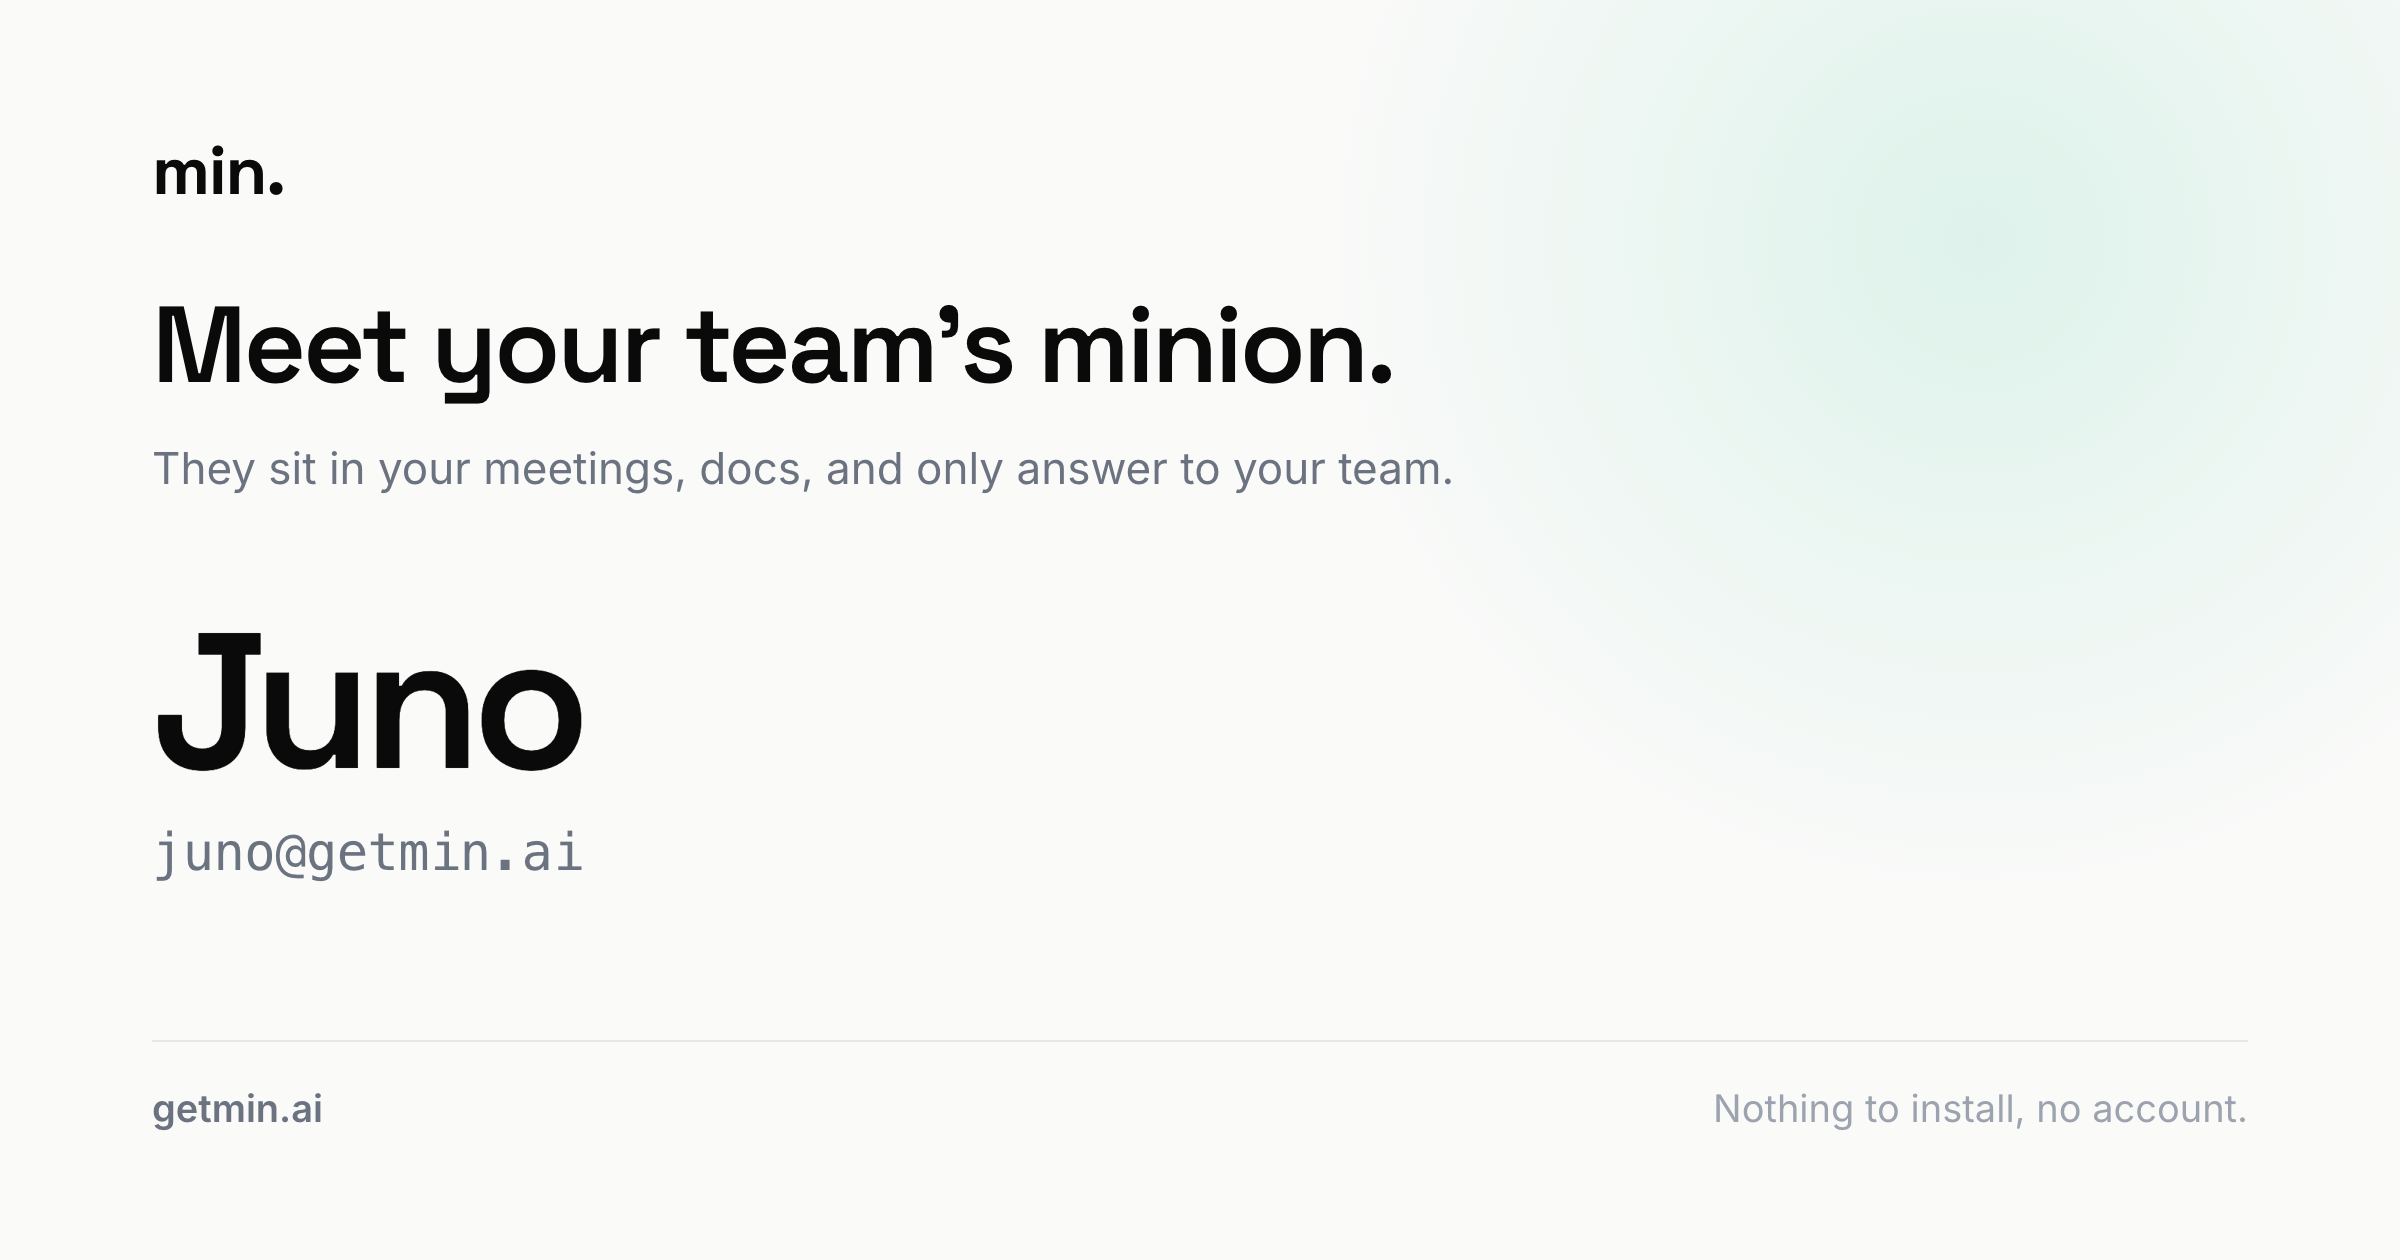
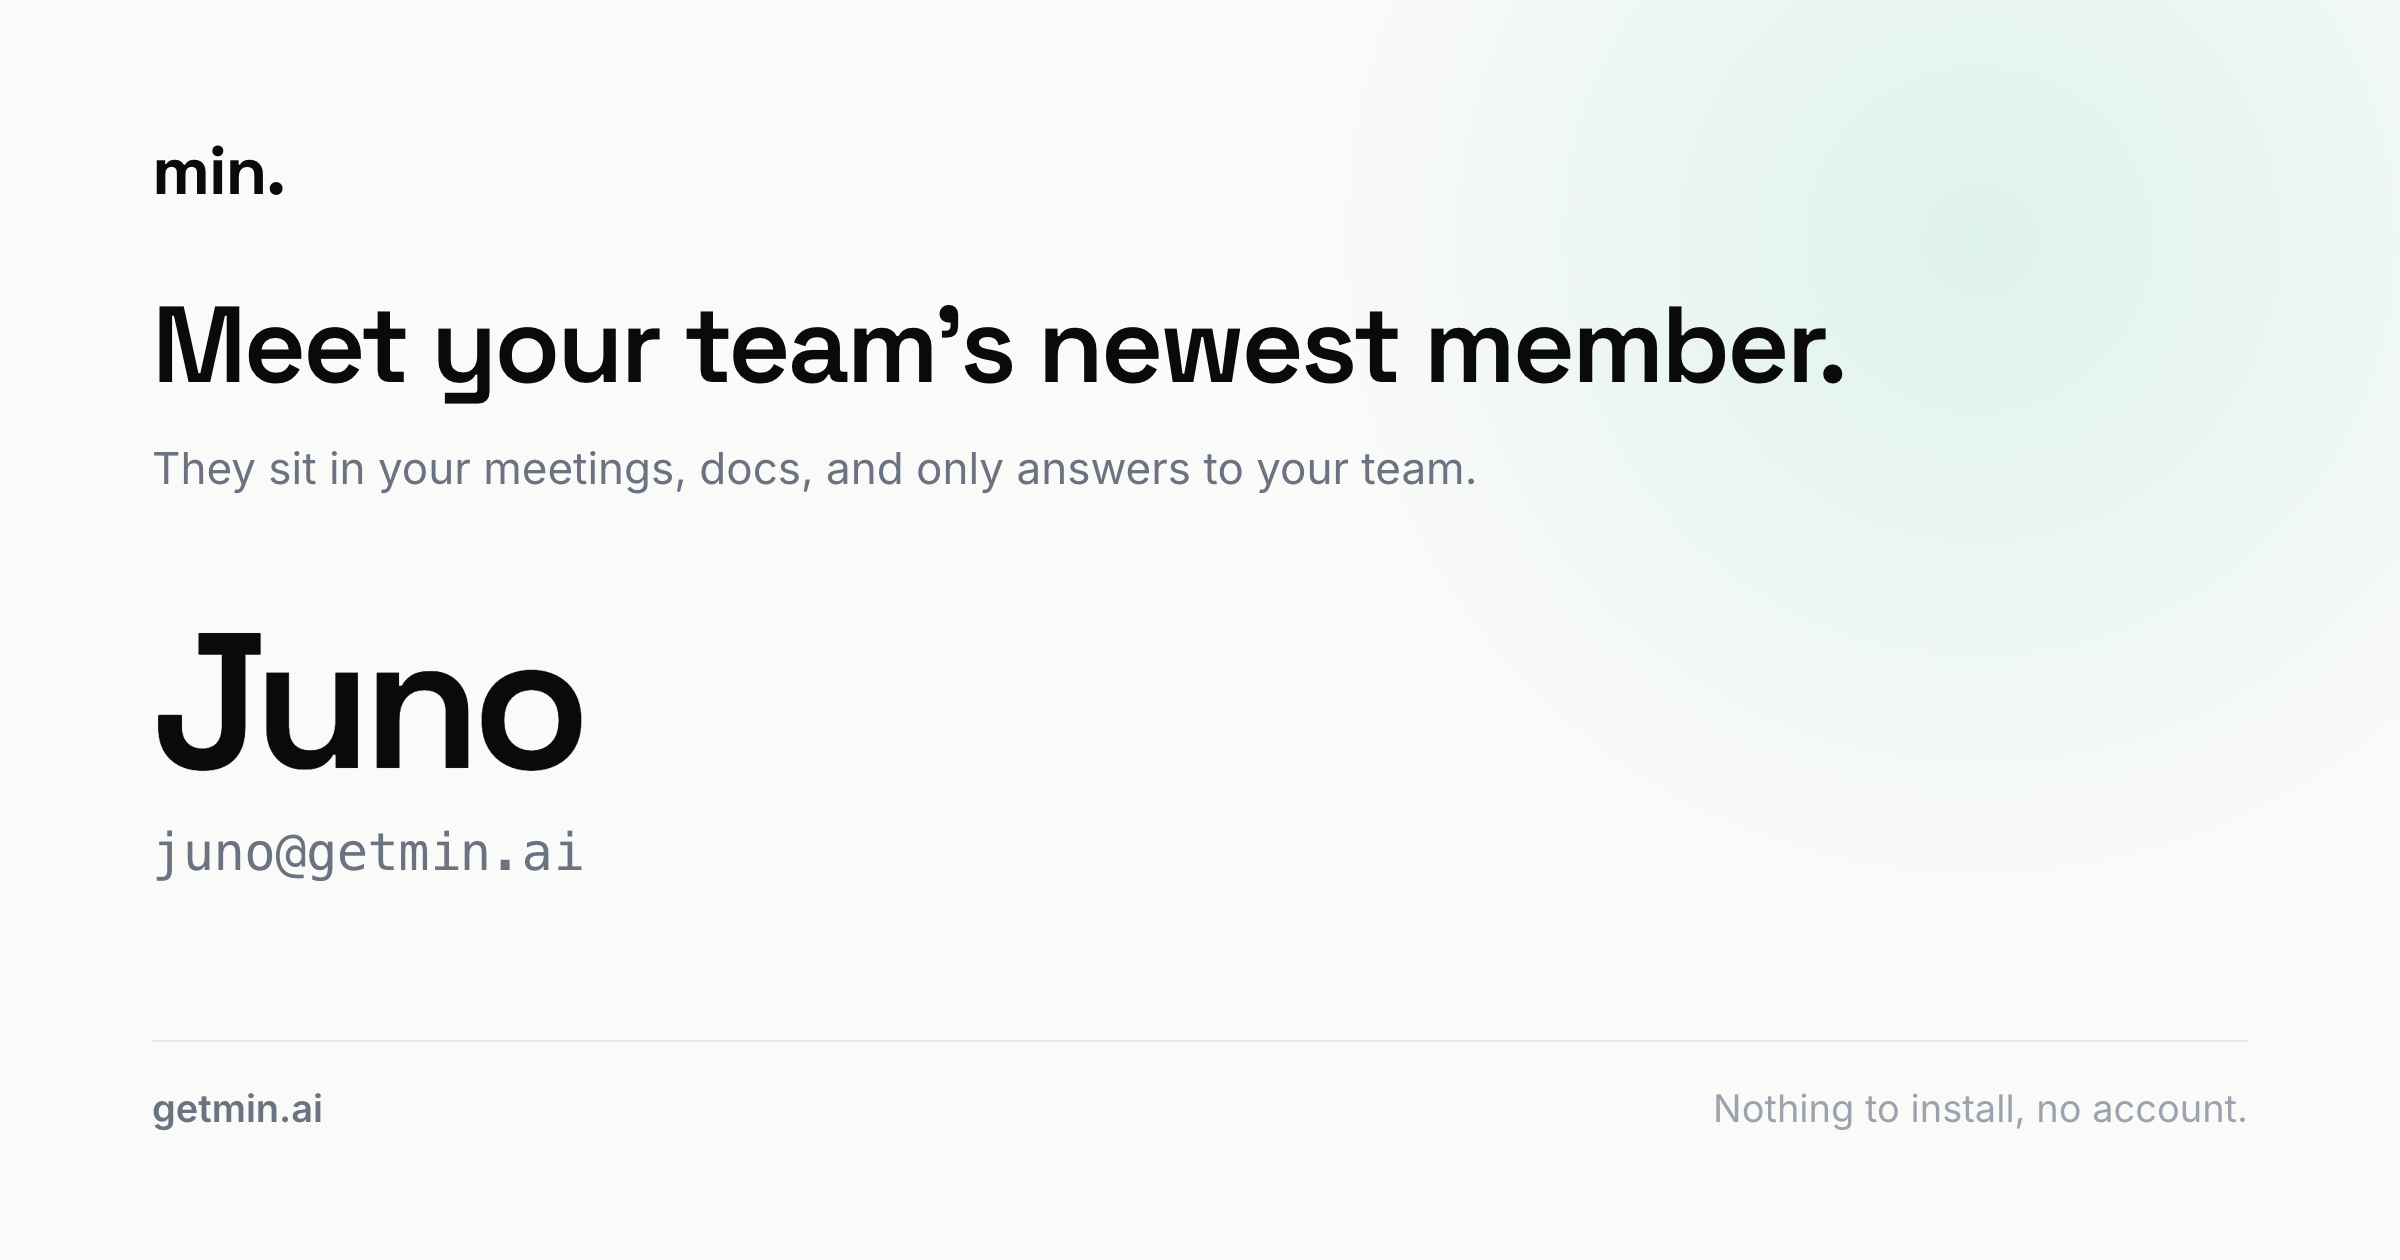
Back to "only answers", per Eric
I had changed this to "answer" for subject-verb agreement with "They sit".
Reverting: it has now been written this way twice, so it is the intended voice
rather than a slip. The minion is one entity being referred to as "they", and
the singular verb leans on that.

The share card carries this line, so it is regenerated at the same v2 filename.
Deliberately not renamed this time: a one-letter change does not justify busting
every chat's preview cache, and anything already cached is indistinguishable at
a glance.

Changed region(s): [[0.4375, 0.2476, 0.7812, 0.3095], [0.5, 0.3405, 0.625, 0.4024]]

diff --git a/index.html b/index.html
@@ -145,7 +145,7 @@
       </noscript>
       <main hidden>
         <h1>Meet your team's newest member.</h1>
-        <p>They sit in your meetings, docs, and only answer to your team.</p>
+        <p>They sit in your meetings, docs, and only answers to your team.</p>
         <p>Every team gets a minion: a named teammate whose name is its email address, like juno@getmin.ai. Invite them to your next team meeting. Nothing to install, no account.</p>
         <p>Take notes that belong to the team. Not to whoever happened to hit record.</p>
         <p>Add them to a doc or a spreadsheet. Same as collaborating with a teammate in Google Docs or Sheets.</p>

diff --git a/src/components/landing/MinionLanding.tsx b/src/components/landing/MinionLanding.tsx
@@ -305,7 +305,7 @@ export default function MinionLanding() {
             Meet your team's newest member.
           </h1>
           <p className="mt-5 max-w-[32rem] text-[17px] leading-[1.6] text-quiet [text-wrap:pretty]">
-            They sit in your meetings, docs, and only answer to your team.
+            They sit in your meetings, docs, and only answers to your team.
           </p>
 
           {/* Anchored: the nav CTA and every in-page call to action scroll

diff --git a/public/og-image.html b/public/og-image.html
@@ -60,7 +60,7 @@
     <div>
       <div class="mark">min.</div>
       <h1 style="margin-top:38px;">Meet your team's newest member.</h1>
-      <p class="sub">They sit in your meetings, docs, and only answer to your team.</p>
+      <p class="sub">They sit in your meetings, docs, and only answers to your team.</p>
     </div>
 
     <div style="margin-top:52px;">
